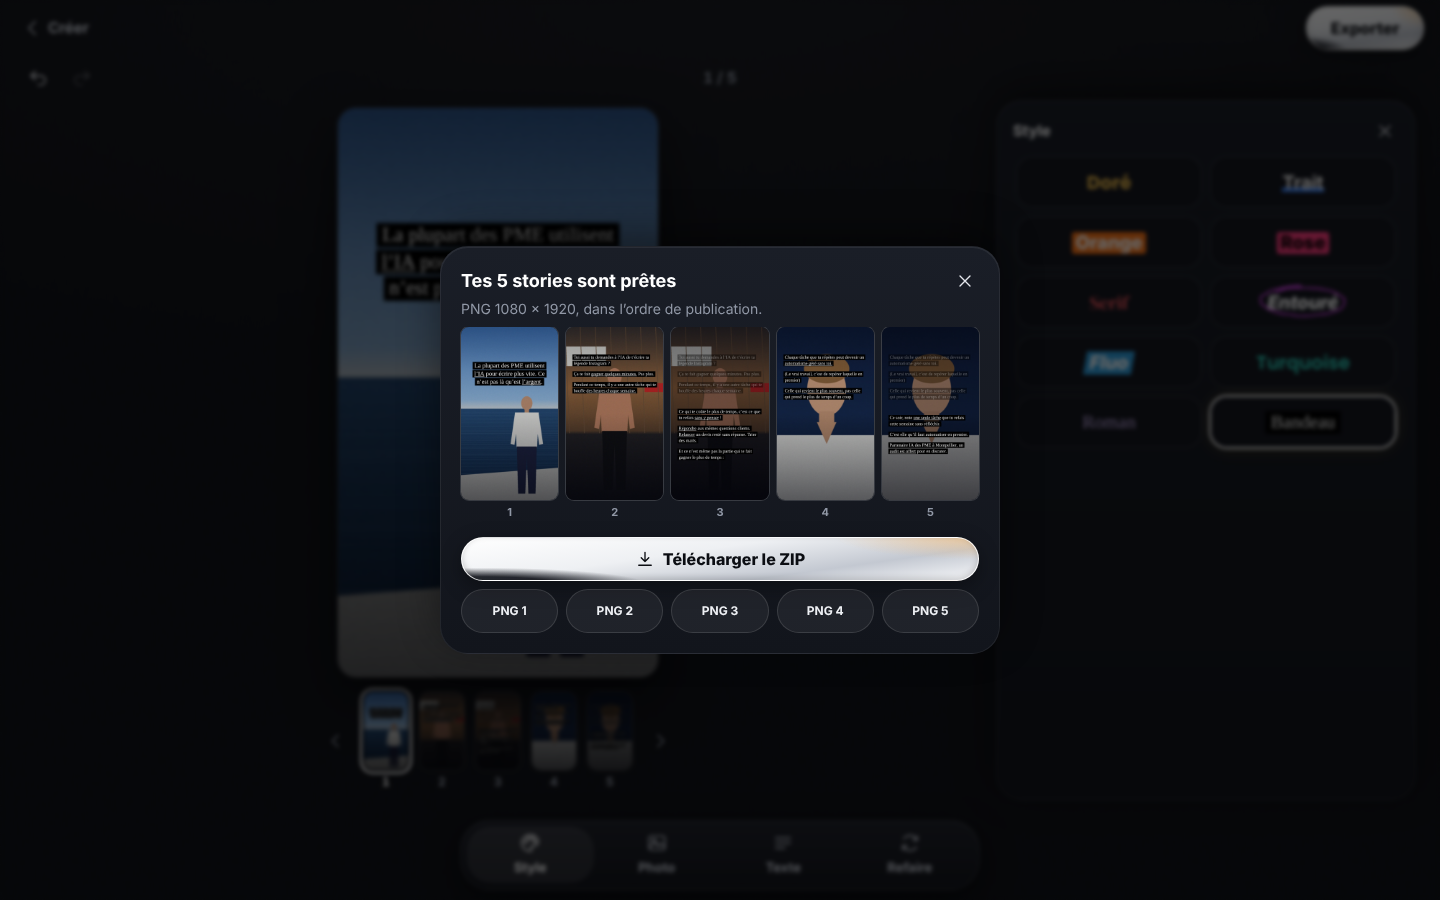
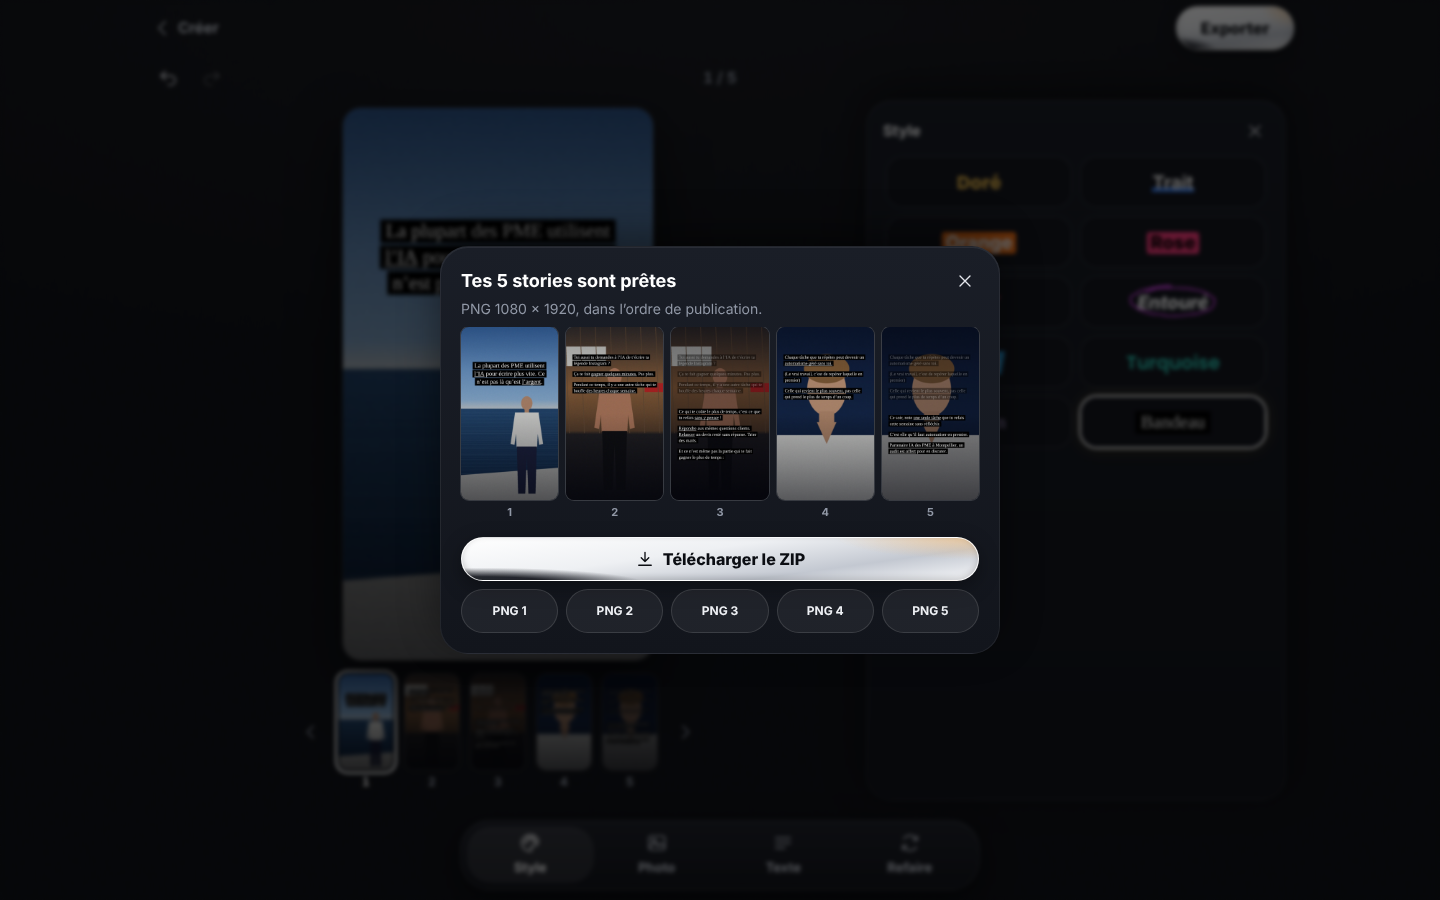
Polish the app page after design review and record the Page decisions
Photos first on the create screen, auto-growing text fields, compact photo
panel, per-paragraph undo grouping, readable remark labels, no doubled
quotes on idea cards, blocked-export check in verify-app, and a pending
draft save no longer survives Nouvelle sequence.

Claude-Session: https://claude.ai/code/session_018XoWtJuJv6cxUD2vK78B3R

diff --git a/src/features/creator/editor/EditorScreen.tsx b/src/features/creator/editor/EditorScreen.tsx
@@ -16,6 +16,7 @@ import { publishAppReport } from "../test-report";
 import { useCreator, useStore } from "../use-creator";
 import { IconChevronLeft, IconClose, IconImage, IconPalette, IconRedo, IconRefresh, IconText, IconUndo, IconWarning } from "../ui/icons";
 import { ConfirmSheet } from "../ui/Sheet";
+import { useMediaQuery } from "../ui/use-media-query";
 import { ContrastProbes, type ContrastResult } from "./ContrastProbes";
 import { ExportSheet, type ExportState } from "./ExportSheet";
 import { PhotoPanel } from "./PhotoPanel";
@@ -46,6 +47,7 @@ export function EditorScreen() {
   const snapshot = history.present;
   const plan = snapshot.plan;
   const render = useSequenceRender(snapshot, pool);
+  const wide = useMediaQuery("(min-width: 1024px)");
   const { composition, layout, images, fontsReady, fontError } = render;
 
   const [tool, setTool] = useState<Tool | null>(null);
@@ -70,7 +72,16 @@ export function EditorScreen() {
       const photo = id ? pool.get(id) : undefined;
       photo?.warnings.forEach((w) => warnings.push(`Photo ${slot + 1} : ${w.message}`));
     });
-    return { controls: snapshot.controls?.issues ?? [], problems: [...new Set(problems)], warnings: [...new Set(warnings)] };
+    // Identifiants techniques (« story_05/s5_p3 ») → « Story 5, paragraphe 3 ».
+    const human = (m: string) =>
+      m
+        .replace(/\bstory_0?(\d)\/s\d_([pr])(\d+)/g, (_, n, kind, k) => `Story ${n}, paragraphe ${kind === "r" ? `repris ${k}` : k}`)
+        .replace(/\bstory_0?(\d)\b/g, "Story $1");
+    return {
+      controls: snapshot.controls?.issues ?? [],
+      problems: [...new Set(problems.map(human))],
+      warnings: [...new Set(warnings.map(human))],
+    };
   }, [fontError, composition, layout, contrast, snapshot.photos, snapshot.controls, pool]);
   const count = remarksCount(remarks);
 
@@ -158,6 +169,7 @@ export function EditorScreen() {
   };
 
   const changeStory = (index: number) => store.setStoryIndex(index);
+  const thumbWidth = wide ? 54 : 44;
   const toggleTool = (t: Tool) => setTool((current) => (current === t ? null : t));
 
   if (!plan) return null;
@@ -167,7 +179,7 @@ export function EditorScreen() {
 
   return (
     <div className="flex h-dvh flex-col overflow-hidden pt-[env(safe-area-inset-top)]" data-screen="editor">
-      <header className="flex h-14 shrink-0 items-center justify-between gap-2 px-2 sm:px-4">
+      <header className="mx-auto flex h-14 w-full max-w-[1180px] shrink-0 items-center justify-between gap-2 px-2 sm:px-4">
         <button type="button" onClick={store.goCreate} className="flex min-h-11 items-center gap-1 rounded-full pr-3 pl-1.5 text-[15px] font-bold text-soft hover:bg-white/5">
           <IconChevronLeft size={22} /> Créer
         </button>
@@ -176,7 +188,7 @@ export function EditorScreen() {
         </button>
       </header>
 
-      <div className="grid h-11 shrink-0 grid-cols-[1fr_auto_1fr] items-center px-2 sm:px-4">
+      <div className="mx-auto grid h-11 w-full max-w-[1180px] shrink-0 grid-cols-[1fr_auto_1fr] items-center px-2 sm:px-4">
         <div className="flex items-center">
           <button type="button" className="icon-btn" onClick={store.undo} disabled={!canUndo(history)} aria-label="Annuler" data-action="annuler">
             <IconUndo />
@@ -195,23 +207,27 @@ export function EditorScreen() {
               type="button"
               onClick={() => setModal("remarques")}
               data-action="remarques"
-              className={`flex min-h-11 items-center gap-1.5 rounded-full px-3 text-xs font-bold ${
-                remarks.problems.length ? "bg-red-500/20 text-red-100 ring-1 ring-red-400/40" : "bg-amber-300/12 text-amber-100 ring-1 ring-amber-200/25"
-              }`}
+              className="flex min-h-11 items-center"
               aria-label={`Remarques : ${count}${remarks.problems.length ? ", dont des problèmes à corriger avant l’export" : ""}`}
             >
-              <IconWarning size={15} /> Remarques <span className="tabular-nums">{count}</span>
+              <span
+                className={`flex h-8 items-center gap-1.5 rounded-full px-3 text-xs font-bold ${
+                  remarks.problems.length ? "bg-red-500/20 text-red-100 ring-1 ring-red-400/40" : "bg-amber-300/10 text-amber-100 ring-1 ring-amber-200/20"
+                }`}
+              >
+                <IconWarning size={14} /> Remarques <span className="tabular-nums">{count}</span>
+              </span>
             </button>
           )}
         </div>
       </div>
 
-      <div className="flex min-h-0 flex-1 flex-col lg:flex-row lg:gap-6 lg:px-6 lg:pb-3">
+      <div className="mx-auto flex min-h-0 w-full max-w-[1180px] flex-1 flex-col lg:flex-row lg:gap-6 lg:px-6 lg:pb-3">
         <div className="flex min-h-0 flex-1 flex-col items-stretch gap-3 px-4 pt-2 pb-2">
           <StoryViewport slide={slide} layout={layout} images={images} index={storyIndex} count={STORY_COUNT} onChange={changeStory} sideArrows={false} />
           {layout && slides.length > 0 && (
             <div className={tool ? "hidden shrink-0 lg:block" : "shrink-0"}>
-              <Thumbnails slides={slides} layout={layout} images={images} index={storyIndex} onChange={changeStory} width={44} />
+              <Thumbnails slides={slides} layout={layout} images={images} index={storyIndex} onChange={changeStory} width={thumbWidth} />
             </div>
           )}
         </div>

diff --git a/src/features/creator/create/ContextSheet.tsx b/src/features/creator/create/ContextSheet.tsx
@@ -3,6 +3,7 @@
 import { useState } from "react";
 import { DEFAULT_CONTEXT } from "@/domain/example-plan";
 import { BrandContextSchema, type BrandContext } from "@/domain/story-plan";
+import { AutoTextarea } from "../ui/AutoTextarea";
 import { Sheet } from "../ui/Sheet";
 
 interface Props {
@@ -15,7 +16,7 @@ const FIELDS: Array<{ key: "name" | "activity" | "offer" | "target" | "cta" | "t
   { key: "activity", label: "Ton activité", hint: "Qui tu es, ce que tu fais.", multiline: true },
   { key: "offer", label: "Ton offre", hint: "Ce que tu vends, comment ça se passe.", multiline: true },
   { key: "target", label: "Ta cible", hint: "Ton client idéal : qui, sa situation, ce qu’il veut.", multiline: true },
-  { key: "cta", label: "Ton appel à l’action", hint: "La dernière phrase de la séquence (« audit offert », « réponds AUDIT »…)." },
+  { key: "cta", label: "Ton appel à l’action", hint: "La dernière phrase de la séquence (« audit offert », « réponds AUDIT »…)." },
   { key: "tone", label: "Ton ton", hint: "Tutoiement, expressions, emojis ou non." },
   { key: "name", label: "Ton nom ou ta marque", hint: "Facultatif." },
 ];
@@ -98,9 +99,9 @@ export function ContextSheet({ context, onSave, onClose }: Props) {
             <span className="text-sm font-bold text-white">{f.label}</span>
             <span className="text-xs text-mute">{f.hint}</span>
             {f.multiline ? (
-              <textarea
-                className="field min-h-[76px] resize-y"
-                rows={2}
+              <AutoTextarea
+                className="field"
+                minRows={1}
                 maxLength={400}
                 value={form[f.key]}
                 onChange={(e) => update({ [f.key]: e.target.value })}
@@ -113,21 +114,21 @@ export function ContextSheet({ context, onSave, onClose }: Props) {
         <label className="flex flex-col gap-1.5">
           <span className="text-sm font-bold text-white">Tes preuves réelles</span>
           <span className="text-xs text-mute">Une par ligne : témoignages, chiffres, résultats vérifiables.</span>
-          <textarea
-            className="field min-h-[88px] resize-y"
-            rows={3}
+          <AutoTextarea
+            className="field"
+            minRows={2}
             value={form.proofsText}
             onChange={(e) => update({ proofsText: e.target.value })}
-            placeholder="« J’ai gagné 4 h par semaine » — Julie, fleuriste"
+            placeholder="« J’ai gagné 4 h par semaine » — Julie, fleuriste"
           />
           <span className="flex items-start gap-1.5 text-xs font-bold text-or">Aucune preuve = aucun chiffre ni témoignage inventé.</span>
         </label>
         <label className="flex flex-col gap-1.5">
           <span className="text-sm font-bold text-white">Mots interdits</span>
           <span className="text-xs text-mute">Un mot ou une tournure par ligne.</span>
-          <textarea
-            className="field min-h-[88px] resize-y"
-            rows={3}
+          <AutoTextarea
+            className="field"
+            minRows={2}
             value={form.forbiddenText}
             onChange={(e) => update({ forbiddenText: e.target.value })}
           />

diff --git a/src/features/creator/create/CreateScreen.tsx b/src/features/creator/create/CreateScreen.tsx
@@ -107,6 +107,16 @@ export function CreateScreen() {
           </section>
         )}
 
+        <section className="flex flex-col gap-3" aria-labelledby="photos-titre">
+          <div>
+            <h2 id="photos-titre" className="text-base font-bold text-white">
+              Tes 3 photos
+            </h2>
+            <p className="mt-0.5 text-[13px] text-mute">De préférence verticales, avec le haut de l’image dégagé pour le texte.</p>
+          </div>
+          <PhotoSlots />
+        </section>
+
         <section className="flex flex-col gap-3" aria-labelledby="idee-titre">
           <div className="flex items-center justify-between gap-3">
             <h2 id="idee-titre" className="text-base font-bold text-white">
@@ -190,7 +200,7 @@ export function CreateScreen() {
                         onClick={() => chooseIdea(s)}
                         className="card flex w-full flex-col gap-1.5 p-4 text-left transition hover:bg-white/[0.07]"
                       >
-                        <span className="text-[15px] leading-snug font-bold text-white">« {s.hook} »</span>
+                        <span className="text-[15px] leading-snug font-bold text-white">{/^[«"“]/.test(s.hook.trim()) ? s.hook : `« ${s.hook} »`}</span>
                         <span className="text-[13px] leading-snug text-soft">{s.idea}</span>
                         <span className="mt-0.5 self-start rounded-full bg-white/8 px-2.5 py-1 text-[11px] font-bold tracking-wide text-mute uppercase">
                           {isStructureId(s.structureId) ? getStructure(s.structureId).nom : s.structureId}
@@ -211,15 +221,6 @@ export function CreateScreen() {
           <StructurePicker value={structure} onChange={store.setStructure} />
         </section>
 
-        <section className="flex flex-col gap-3" aria-labelledby="photos-titre">
-          <div>
-            <h2 id="photos-titre" className="text-base font-bold text-white">
-              Tes 3 photos
-            </h2>
-            <p className="mt-0.5 text-[13px] text-mute">De préférence verticales, avec le haut de l’image dégagé pour le texte.</p>
-          </div>
-          <PhotoSlots />
-        </section>
       </main>
 
       <div className="fixed inset-x-0 bottom-0 z-30 bg-gradient-to-t from-[#0a0c12] via-[#0a0c12]/95 to-transparent pt-8 pb-[max(env(safe-area-inset-bottom),14px)]">

diff --git a/src/features/creator/photos/PhotoSlots.tsx b/src/features/creator/photos/PhotoSlots.tsx
@@ -55,7 +55,7 @@ export function PhotoSlots({ compact = false, highlight }: Props) {
                 aria-label={photo ? `${label} : ${photo.name || "photo ajoutée"}. Modifier` : `${label} : ajouter une photo`}
                 disabled={busy}
                 onClick={() => (photo ? setMenu(slot) : pick(slot))}
-                className={`group relative aspect-[3/4] w-full overflow-hidden rounded-2xl transition disabled:cursor-wait ${
+                className={`group relative w-full overflow-hidden rounded-2xl transition disabled:cursor-wait ${compact ? "h-[78px]" : "aspect-[3/4]"} ${
                   photo ? "ring-1 ring-white/15" : "border border-dashed border-white/25 bg-white/[0.03] hover:bg-white/[0.06]"
                 } ${highlight === slot ? "ring-2 ring-white" : ""}`}
               >
@@ -70,7 +70,7 @@ export function PhotoSlots({ compact = false, highlight }: Props) {
                 )}
                 <span
                   aria-hidden
-                  className="absolute top-1.5 left-1.5 flex size-6 items-center justify-center rounded-full bg-black/65 text-xs font-extrabold text-white ring-1 ring-white/25"
+                  className="absolute bottom-1.5 left-1.5 flex size-6 items-center justify-center rounded-full bg-black/65 text-xs font-extrabold text-white ring-1 ring-white/25"
                 >
                   {slot + 1}
                 </span>
@@ -104,11 +104,13 @@ export function PhotoSlots({ compact = false, highlight }: Props) {
         })}
       </ol>
 
-      <div className="flex flex-wrap items-center gap-2">
-        <button type="button" className="btn-ghost min-h-11 text-sm" disabled={busy} onClick={() => multi.current?.click()}>
-          <IconImage size={18} />
-          {filled === 0 ? "Ajouter 3 photos" : filled < PHOTO_COUNT ? "Compléter les photos" : "Changer les 3 photos"}
-        </button>
+      <div className={compact ? "contents" : "flex flex-wrap items-center gap-2"}>
+        {!compact && (
+          <button type="button" className="btn-ghost min-h-11 text-sm" disabled={busy} onClick={() => multi.current?.click()}>
+            <IconImage size={18} />
+            {filled === 0 ? "Ajouter 3 photos" : filled < PHOTO_COUNT ? "Compléter les photos" : "Changer les 3 photos"}
+          </button>
+        )}
         <input
           ref={multi}
           type="file"

diff --git a/src/features/creator/editor/PhotoPanel.tsx b/src/features/creator/editor/PhotoPanel.tsx
@@ -16,12 +16,13 @@ export function PhotoPanel() {
   const pct = (v: number) => `${Math.round(v * 100)} %`;
 
   return (
-    <div className="flex flex-col gap-5">
+    <div className="flex flex-col gap-4">
       <PhotoSlots compact highlight={slot} />
-      <section aria-labelledby="cadrage-titre" className="flex flex-col gap-3">
-        <div className="flex items-baseline justify-between gap-3">
+      <section aria-labelledby="cadrage-titre" className="flex flex-col gap-1">
+        <div className="flex items-center justify-between gap-3">
           <h3 id="cadrage-titre" className="text-sm font-bold text-white">
             Cadrage de la photo {slot + 1}
+            <span className="block text-xs font-normal text-mute">Pour toutes les stories de cette photo.</span>
           </h3>
           {photoId && (
             <button type="button" className="min-h-11 text-xs font-bold text-soft underline underline-offset-2" onClick={() => store.setCrop(photoId, DEFAULT_CROP)}>
@@ -30,11 +31,10 @@ export function PhotoPanel() {
           )}
         </div>
         {photoId ? (
-          <div className="flex flex-col gap-3" data-testid="cadrage">
+          <div className="flex flex-col" data-testid="cadrage">
             <Slider label="Horizontal" value={crop.focalX} min={0} max={1} step={0.01} display={pct(crop.focalX)} onChange={(focalX) => set({ focalX })} hint="gauche ↔ droite" />
             <Slider label="Vertical" value={crop.focalY} min={0} max={1} step={0.01} display={pct(crop.focalY)} onChange={(focalY) => set({ focalY })} hint="haut ↔ bas" />
             <Slider label="Zoom" value={crop.zoom} min={1} max={2} step={0.01} display={`× ${crop.zoom.toFixed(2).replace(".", ",")}`} onChange={(zoom) => set({ zoom })} />
-            <p className="text-xs text-mute">S’applique à toutes les stories de cette photo.</p>
           </div>
         ) : (
           <p className="text-sm text-mute">Ajoute la photo {slot + 1} pour régler son cadrage.</p>

diff --git a/src/features/creator/GenerationScreen.tsx b/src/features/creator/GenerationScreen.tsx
@@ -81,9 +81,6 @@ export function GenerationScreen() {
             {error.retryAfterSec !== undefined && (
               <p className="mt-2 text-sm font-bold text-amber-100">Tu pourras réessayer dans {retryDelayLabel(error.retryAfterSec)}.</p>
             )}
-            {error.code === "cle_absente" && (
-              <p className="mt-2 text-sm text-mute">En attendant, le mode démo charge une séquence d’exemple pour essayer photos, styles et export.</p>
-            )}
           </div>
           <div className="flex w-full max-w-[340px] flex-col gap-2.5">
             {error.code === "cle_absente" ? (

diff --git a/src/features/creator/ui/use-media-query.ts b/src/features/creator/ui/use-media-query.ts
@@ -1,0 +1,16 @@
+"use client";
+
+import { useSyncExternalStore } from "react";
+
+/** true quand la requête média correspond ; suit les changements (rotation, redimensionnement). */
+export function useMediaQuery(query: string): boolean {
+  return useSyncExternalStore(
+    (notify) => {
+      const list = window.matchMedia(query);
+      list.addEventListener("change", notify);
+      return () => list.removeEventListener("change", notify);
+    },
+    () => window.matchMedia(query).matches,
+    () => false,
+  );
+}

diff --git a/src/features/creator/editor/TextPanel.tsx b/src/features/creator/editor/TextPanel.tsx
@@ -78,7 +78,7 @@ export function TextPanel({ plan, storyIndex }: Props) {
                 id={id}
                 data-paragraph={i + 1}
                 className="field text-[15px]"
-                minRows={2}
+                minRows={1}
                 maxLength={MAX_PARAGRAPH_LENGTH + 20}
                 value={value}
                 onChange={(e) => apply(fields.map((f, k) => (k === i ? e.target.value : f)), i)}

diff --git a/src/features/creator/store.ts b/src/features/creator/store.ts
@@ -415,6 +415,8 @@ export class CreatorStore {
     this.generationId++;
     this.controller?.abort();
     this.state.photos.forEach(releasePhoto);
+    if (this.saveTimer) clearTimeout(this.saveTimer); // un enregistrement en attente réécrirait le brouillon
+    this.saveTimer = null;
     clearDraft();
     this.savedPhotosKey = "||";
     this.set(

diff --git a/src/app/globals.css b/src/app/globals.css
@@ -59,7 +59,7 @@ body:has(.creator-root) {
   -webkit-tap-highlight-color: transparent;
 }
 
-.creator-root :focus-visible {
+.creator-root :focus-visible:not(.field) {
   outline: 2px solid #a8c8ff;
   outline-offset: 2px;
 }

diff --git a/DECISIONS.md b/DECISIONS.md
@@ -99,5 +99,71 @@ et du halo à l’échelle réduite.
 
 **Limites.** Photos de test synthétiques : le voile et le contraste sont à rejuger sur de vraies photos ; ancrage
 vertical unique (la référence semble ajuster de ± 10 px selon la photo) ; PNG ≈ 3,5 Mo à cause du grain ;
-`scripts/verify-export.mjs` (S1) laisse un `next-server` actif à la fin (`child.kill()` ne tue que `npx`) :
+`scripts/verify-export.mjs` (S1) laissait un `next-server` actif à la fin (`child.kill()` ne tue que `npx`, corrigé : voir « Page ») ;
 `verify-render` arrête tout le groupe de processus.
+
+## Page (« / », src/features/creator)
+
+**Routes.** `/` est l’application ; le studio S1 passe sur `/s1` (`src/features/studio` inchangé) et
+`scripts/verify-export.mjs` le vise, sur un port libre, avec `next start` dans son propre groupe de processus
+(`detached` + `process.kill(-pid)`) : plus de `next-server` orphelin.
+
+**Découpage.** `src/features/creator/` : `model/` (pur, testé : historique, astérisques ↔ accents, brouillon,
+appels API), `store.ts` (état métier hors React et hors Konva, lu par `useSyncExternalStore` : idée, plan, style,
+photos, génération, brouillon), `create/`, `editor/`, `photos/`, `ui/` (feuilles, icônes SVG fines inline).
+Chargé par `next/dynamic(..., { ssr: false })` comme le studio. Côté client, seul `src/domain/*` est importé
+du moteur d’écriture.
+
+**Historique.** Un snapshot = plan + contrôles de l’IA + style + ordre des 3 photos + cadrages (par identifiant
+de photo : le cadrage suit la photo quand on échange). 50 étapes. La saisie est regroupée **par champ**
+(clé `texte:story:paragraphe`, fenêtre de 1,5 s) : regrouper par story fusionnait deux paragraphes modifiés
+coup sur coup. Les curseurs de cadrage sont regroupés de la même façon. Une nouvelle génération (Refaire) est une
+étape : Annuler revient à la version d’avant.
+
+**Photos et mémoire.** Une photo remplacée ou retirée reste en mémoire tant qu’un état de l’historique la
+référence (Annuler peut la faire revenir) ; dès qu’aucun état ne la référence, `releasePhoto`. Au démontage,
+toutes sont libérées (elles restent dans IndexedDB).
+
+**Texte.** Les mots mis en valeur s’écrivent entre astérisques ; chaque frappe est appliquée (aperçu en direct) :
+astérisques retirés, `accents[]` déduits, 3 au plus **par story** (les suivants sont signalés et ignorés), champ vide
+ignoré (le contrat exige du texte), astérisque isolé ignoré et signalé. Les stories suite (3 et 5) affichent en
+lecture seule les paragraphes repris.
+
+**Rendu.** `useSequenceRender` : polices du texte réel (`fontRequirementsForSequence`) → `composeSequence` →
+`layoutDocument`, références stables pour les `StoryPreview` mémoïsés, recomposition à chaque `loadingdone`.
+Au changement de style, l’ancien rendu reste affiché jusqu’au chargement des polices du nouveau ; le panneau
+Style précharge les polices des 10 styles avec le texte courant, le changement est donc immédiat. Le contraste
+est mesuré comme au laboratoire (fond seul dessiné hors écran, 108 px de large, luminance sous chaque ligne),
+700 ms après le dernier changement, et rapporté en avertissement sous 4,5:1.
+
+**Export.** Bloqué tant qu’il reste un problème (composition, mise en page, police) : la feuille Remarques
+s’ouvre avec l’explication. Sinon `ExportStage` 1080 × 1920 une story à la fois, polices revérifiées, PNG relus.
+Feuille finale : « Enregistrer dans Photos / Partager » (`navigator.share({ files })` si `canShare`), et toujours
+le ZIP et les 5 PNG (sous « Ou télécharge les fichiers » quand le partage existe). Object URLs libérées à la
+fermeture.
+
+**Génération.** Pas d’étapes côté serveur : « Lecture » (0–2,5 s), « Écriture » (jusqu’à 22 s), « Relecture »
+(jusqu’à la réponse) sont indicatives ; « Mise en page » = chargement réel des polices. Annulable
+(`AbortController`). Les erreurs de l’API sont affichées telles quelles ; `cle_absente` propose l’exemple,
+429 indique le délai (`Retry-After`). Refaire : même idée, structure choisie (sinon Auto),
+`avoid = [ancienne structure, ancienne accroche]` ; une génération normale envoie les accroches récentes.
+
+**Brouillon.** localStorage `story.brouillon.v1` (idée, mode, structure, snapshot courant, 5 dernières
+générations), enregistré 500 ms après le dernier changement et à `pagehide` ; photos dans IndexedDB
+(`savePhotos("brouillon-courant")`) seulement quand la liste des photos change. Le contexte a sa propre clé
+(`story.contexte.v1`) : « Nouvelle séquence » efface le brouillon mais garde le contexte. Stockage indisponible :
+avertissement visible, la page reste utilisable.
+
+**Exemple.** « Voir un exemple » et « Essayer avec l’exemple » ouvrent `EXAMPLE_PLAN` ; les emplacements photo
+vides reçoivent les photos de test (`fetch` + `importPhoto`), les photos déjà ajoutées sont gardées.
+
+**Écran Créer.** Photos d’abord (comme la référence), puis l’idée, puis la structure ; « Générer » fixe en bas,
+actif dès 3 caractères, avec l’avertissement « fond sombre » s’il manque des photos.
+
+**Vérification** : `npm run build && npm run verify:app` (≈ 1 min 30) : parcours iPhone (390 × 844, DPR 3,
+tactile) et ordinateur (1440 × 900) avec l’IA simulée, puis un serveur sans clé (`cle_absente` → exemple).
+Contrôle aussi : aucune erreur JavaScript, aucun défilement horizontal, zones tactiles ≥ 44 px, aucune requête
+hors de `/api/generations`, `/api/ideas` et des fichiers du site. Captures dans `captures/app/`.
+
+**Hors périmètre (voir `docs/REFERENCE_PARCOURS_COMPLET.md` §4).** Idée facultative, 2 photos, carte profil,
+Présenter, zoom, Crayon, 7 styles et décorations supplémentaires : non traités ici.

diff --git a/PLAN_APP.md b/PLAN_APP.md
@@ -42,7 +42,7 @@ Sans clé API, un **mode démo** charge la séquence de référence, pour essaye
 | `src/domain/example-plan.ts` | Séquence de référence (démo, tests, exemple de ton) |
 | `src/lib/ai/`, `src/app/api/` | Méthode d'écriture, structures, appel à Claude, contrôles, réparation ciblée, routes `/api/generations` et `/api/ideas` |
 | `src/lib/fonts/`, `src/lib/layout/`, `src/lib/compose/`, `src/features/renderer/`, `src/styles/presets/` | Polices, mise en page mot par mot, composition « séquence → stories dessinables », styles, rendu Konva |
-| `src/features/studio/` | La page : création, éditeur, export, contexte, brouillon local |
+| `src/features/creator/` | La page « / » : création, génération, éditeur, export, contexte, brouillon local (le studio S1 reste sur `/s1`) |
 
 ## Comment c'est construit
 
